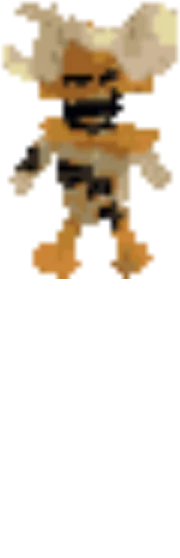
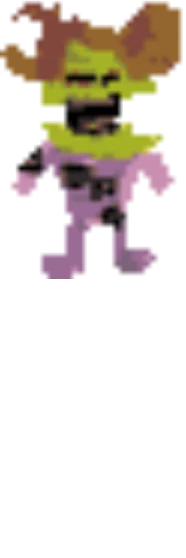
Tape 2: Cheddy takes Bonnie's spots, Weddy takes Chica's
Swapped the toy and withered models, 2D drawings, names and notes so
Eddy = Freddy, Cheddy = Bonnie, Weddy = Chica.

Claude-Session: https://claude.ai/code/session_019sP9bhcRVzTr4WAftExQm1

Changed region(s): [[0.0, 0.0, 1.0, 0.5179]]

diff --git a/2/index.html b/2/index.html
@@ -968,14 +968,14 @@ const MODEL_TYPES = ["glb", "gltf", "fbx", "obj"];
 // pose: "broken" = bent and wrecked (Toy Endo's model standing in for Meyg)
 const ACTOR_FILES = {
   tfreddy: [{ file: "toy_eddy" }],
-  tbonnie: [{ file: "toy_weddy" }],
-  tchica:  [{ file: "toy_cheddy" }],
+  tbonnie: [{ file: "toy_cheddy" }],      // Bonnie's spot: Cheddy
+  tchica:  [{ file: "toy_weddy" }],       // Chica's spot: Weddy
   mangle:  [{ file: "meyg" }, { file: "mangled_endo" }, { file: "toy_endo", pose: "broken" }],
   bb:      [{ file: "balloon_kid" }],
   puppet:  [{ file: "the_puppet" }, { file: "puppet" }],
   wfreddy: [{ file: "withered_eddy" }],
-  wbonnie: [{ file: "withered_weddy" }],
-  wchica:  [{ file: "withered_cheddy" }],
+  wbonnie: [{ file: "withered_cheddy" }],
+  wchica:  [{ file: "withered_weddy" }],
   foxy:    [{ file: "withered_endo" }],
   golden:  [{ file: "golden_eddie" }, { file: "golden_eddy" }],
   endo:    [{ file: "endo" }, { file: "endoskeleton" }],
@@ -1684,14 +1684,14 @@ class Scripts {
    --------------------------------------------------------------------- */
 const CAST = {
   tfreddy: { name: W("Characters", "Toy Eddy") },
-  tbonnie: { name: W("Characters", "Toy Weddy") },
-  tchica:  { name: W("Characters", "Toy Cheddy") },
+  tbonnie: { name: W("Characters", "Toy Cheddy") },     // the ids are the FNaF 2 spots: Cheddy takes Bonnie's,
+  tchica:  { name: W("Characters", "Toy Weddy") },      // Weddy takes Chica's, Eddy takes Freddy's
   mangle:  { name: W("Characters", "Meyg") },
   bb:      { name: W("Characters", "Balloon Kid") },
   puppet:  { name: W("Characters", "The Puppet") },
   wfreddy: { name: W("Characters", "Withered Eddy") },
-  wbonnie: { name: W("Characters", "Withered Weddy") },
-  wchica:  { name: W("Characters", "Withered Cheddy") },
+  wbonnie: { name: W("Characters", "Withered Cheddy") },
+  wchica:  { name: W("Characters", "Withered Weddy") },
   foxy:    { name: W("Characters", "Withered Endo") },
   golden:  { name: W("Characters", "Golden Eddie") },
 };
@@ -2151,7 +2151,7 @@ class Game {
       phone: "off", callTime: 0,
       halluc: null,
       endo: false, shadow: false,
-      slide: 0,                  // Toy Weddy sliding past the mask
+      slide: 0,                  // Toy Cheddy sliding past the mask
       jumpscare: null,
       frozen: false,
       camsSeen: new Set(),
@@ -2677,7 +2677,7 @@ class Game {
     n.switchFx = Math.max(0, n.switchFx - 0.08);
     n.maskTime = n.maskUp ? n.maskTime + TICK : 0;
 
-    // Toy Weddy slides past while the mask is on
+    // Toy Cheddy slides past while the mask is on
     if (n.visit && n.visit.who === "tbonnie" && n.visit.started && n.maskUp) n.slide = Math.min(1, n.slide + TICK / 2.5);
     else n.slide = 0;
 
@@ -3218,7 +3218,7 @@ class Game {
     if (n.golden === "office") drawSpot(ctx, EXTRA_SPOTS.golden, SX(pan - 20), SY(-42), 75);
     if (n.shadow && !n.flash) drawSpot(ctx, EXTRA_SPOTS.shadow, SX(pan - 170), SY(0), 100, { alpha: 0.85 });
     if (v && v.who === "tbonnie") {
-      // Toy Weddy right in front of you; with the mask on he runs off across the room
+      // Toy Cheddy right in front of you; with the mask on Cheddy runs off across the room
       if (!n.maskUp) pose("in-tbonnie");
       else drawSpot(ctx, EXTRA_SPOTS.tbonnie, 620 - n.slide * 820, SY(25), 160, { shade: addShade(EXTRA_SPOTS.tbonnie.shade, flick) });
     }

diff --git a/tools/tape2/game.js b/tools/tape2/game.js
@@ -71,14 +71,14 @@ class Scripts {
    --------------------------------------------------------------------- */
 const CAST = {
   tfreddy: { name: W("Characters", "Toy Eddy") },
-  tbonnie: { name: W("Characters", "Toy Weddy") },
-  tchica:  { name: W("Characters", "Toy Cheddy") },
+  tbonnie: { name: W("Characters", "Toy Cheddy") },     // the ids are the FNaF 2 spots: Cheddy takes Bonnie's,
+  tchica:  { name: W("Characters", "Toy Weddy") },      // Weddy takes Chica's, Eddy takes Freddy's
   mangle:  { name: W("Characters", "Meyg") },
   bb:      { name: W("Characters", "Balloon Kid") },
   puppet:  { name: W("Characters", "The Puppet") },
   wfreddy: { name: W("Characters", "Withered Eddy") },
-  wbonnie: { name: W("Characters", "Withered Weddy") },
-  wchica:  { name: W("Characters", "Withered Cheddy") },
+  wbonnie: { name: W("Characters", "Withered Cheddy") },
+  wchica:  { name: W("Characters", "Withered Weddy") },
   foxy:    { name: W("Characters", "Withered Endo") },
   golden:  { name: W("Characters", "Golden Eddie") },
 };
@@ -538,7 +538,7 @@ class Game {
       phone: "off", callTime: 0,
       halluc: null,
       endo: false, shadow: false,
-      slide: 0,                  // Toy Weddy sliding past the mask
+      slide: 0,                  // Toy Cheddy sliding past the mask
       jumpscare: null,
       frozen: false,
       camsSeen: new Set(),
@@ -1064,7 +1064,7 @@ class Game {
     n.switchFx = Math.max(0, n.switchFx - 0.08);
     n.maskTime = n.maskUp ? n.maskTime + TICK : 0;
 
-    // Toy Weddy slides past while the mask is on
+    // Toy Cheddy slides past while the mask is on
     if (n.visit && n.visit.who === "tbonnie" && n.visit.started && n.maskUp) n.slide = Math.min(1, n.slide + TICK / 2.5);
     else n.slide = 0;
 
@@ -1605,7 +1605,7 @@ class Game {
     if (n.golden === "office") drawSpot(ctx, EXTRA_SPOTS.golden, SX(pan - 20), SY(-42), 75);
     if (n.shadow && !n.flash) drawSpot(ctx, EXTRA_SPOTS.shadow, SX(pan - 170), SY(0), 100, { alpha: 0.85 });
     if (v && v.who === "tbonnie") {
-      // Toy Weddy right in front of you; with the mask on he runs off across the room
+      // Toy Cheddy right in front of you; with the mask on Cheddy runs off across the room
       if (!n.maskUp) pose("in-tbonnie");
       else drawSpot(ctx, EXTRA_SPOTS.tbonnie, 620 - n.slide * 820, SY(25), 160, { shade: addShade(EXTRA_SPOTS.tbonnie.shade, flick) });
     }

diff --git a/tools/tape2/actors.js b/tools/tape2/actors.js
@@ -45,14 +45,14 @@ const MODEL_TYPES = ["glb", "gltf", "fbx", "obj"];
 // pose: "broken" = bent and wrecked (Toy Endo's model standing in for Meyg)
 const ACTOR_FILES = {
   tfreddy: [{ file: "toy_eddy" }],
-  tbonnie: [{ file: "toy_weddy" }],
-  tchica:  [{ file: "toy_cheddy" }],
+  tbonnie: [{ file: "toy_cheddy" }],      // Bonnie's spot: Cheddy
+  tchica:  [{ file: "toy_weddy" }],       // Chica's spot: Weddy
   mangle:  [{ file: "meyg" }, { file: "mangled_endo" }, { file: "toy_endo", pose: "broken" }],
   bb:      [{ file: "balloon_kid" }],
   puppet:  [{ file: "the_puppet" }, { file: "puppet" }],
   wfreddy: [{ file: "withered_eddy" }],
-  wbonnie: [{ file: "withered_weddy" }],
-  wchica:  [{ file: "withered_cheddy" }],
+  wbonnie: [{ file: "withered_cheddy" }],
+  wchica:  [{ file: "withered_weddy" }],
   foxy:    [{ file: "withered_endo" }],
   golden:  [{ file: "golden_eddie" }, { file: "golden_eddy" }],
   endo:    [{ file: "endo" }, { file: "endoskeleton" }],

diff --git a/tools/tape2/cast.py b/tools/tape2/cast.py
@@ -41,8 +41,8 @@ TAPE1_CHARS = os.path.join(os.path.dirname(HERE), 'characters')        # the Tap
 # Who is who. Until Aidan's files arrive, these stand in.
 # ---------------------------------------------------------------------------
 STAND_IN = {
-    'tfreddy': 'Eddy.svg', 'tbonnie': 'Weddy.svg', 'tchica': 'Cheddy.svg',
-    'wfreddy': 'Eddy.svg', 'wbonnie': 'Weddy.svg', 'wchica': 'Cheddy.svg',
+    'tfreddy': 'Eddy.svg', 'tbonnie': 'Cheddy.svg', 'tchica': 'Weddy.svg',      # Bonnie's spot = Cheddy, Chica's = Weddy
+    'wfreddy': 'Eddy.svg', 'wbonnie': 'Cheddy.svg', 'wchica': 'Weddy.svg',
     'foxy': 'Endo.svg', 'mangle': 'Endo.svg', 'golden': 'Golden.svg', 'endo': 'Endo.svg', 'shadow': 'Eddy.svg',
     'bb': None, 'puppet': None,        # drawn below
 }

diff --git a/tools/tape2/withered.py b/tools/tape2/withered.py
@@ -5,8 +5,8 @@ torn up (holes with the endoskeleton and wires showing, ripped edges,
 grime) and misconfigured (head knocked crooked, plus one thing each):
 
   wfreddy  Withered Eddy    an eye socket emptied out, torn ear
-  wbonnie  Withered Weddy   no face: a black hole with endoskeleton eyes and teeth
-  wchica   Withered Cheddy  jaw broken open and hanging
+  wbonnie  Withered Cheddy  no face: a black hole with endoskeleton eyes and teeth
+  wchica   Withered Weddy   jaw broken open and hanging
   foxy     Withered Endo    chest ripped open, a chunk bitten out of an ear
 
 Works on any full-body drawing (the game uses Aidan's 2D drawings for
